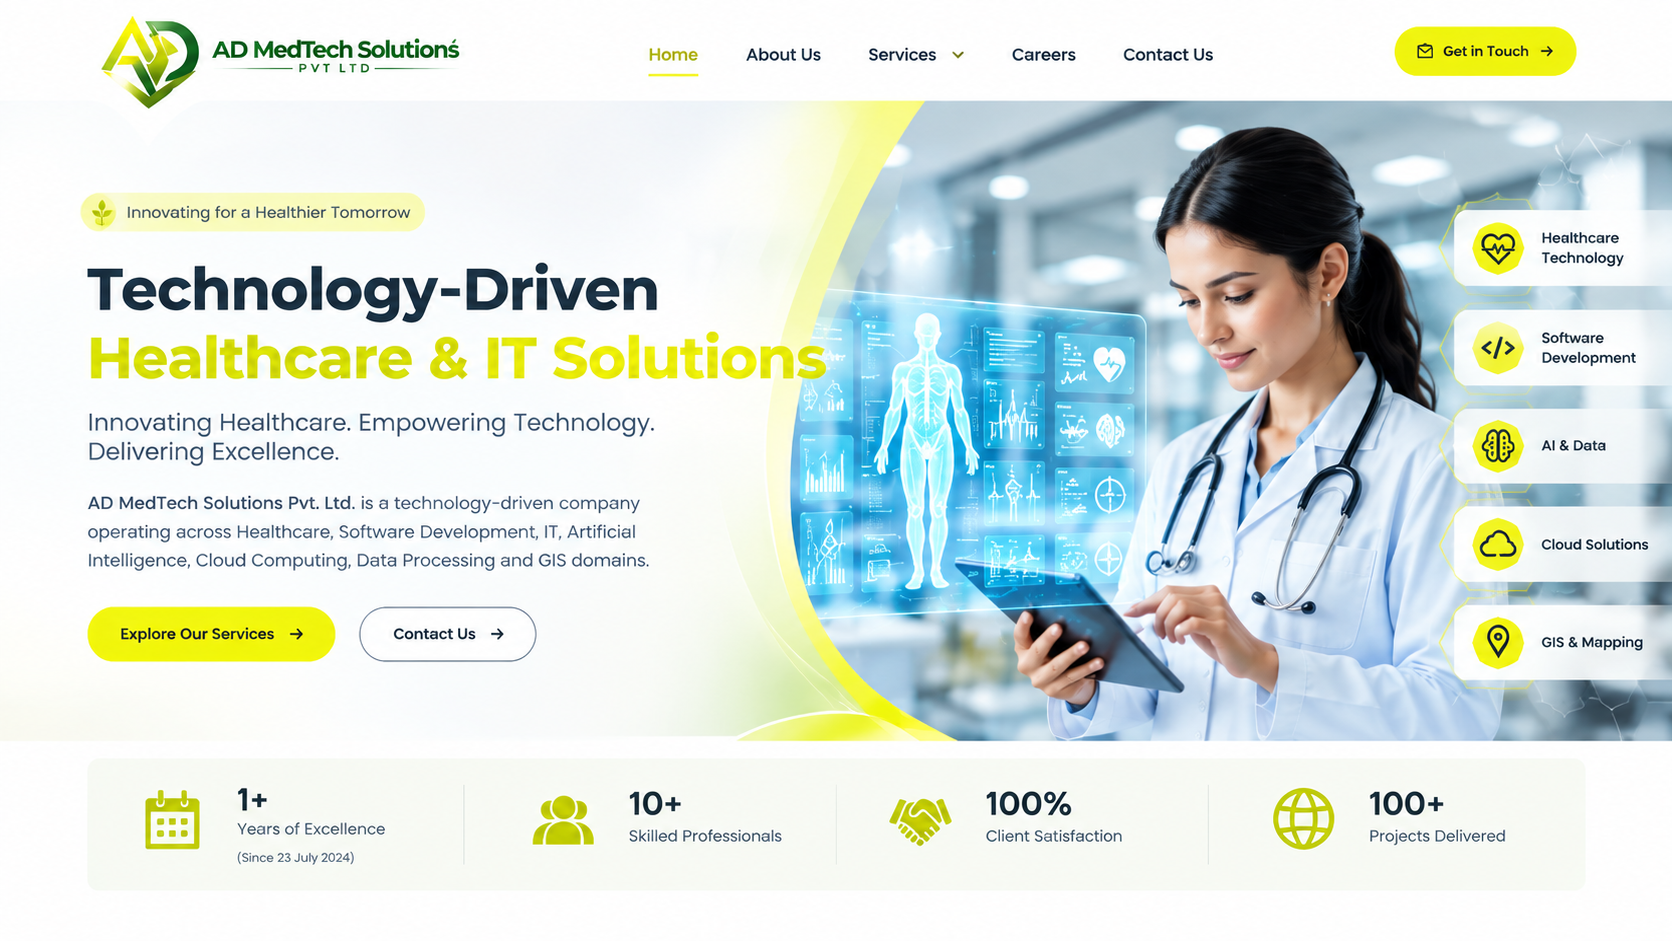
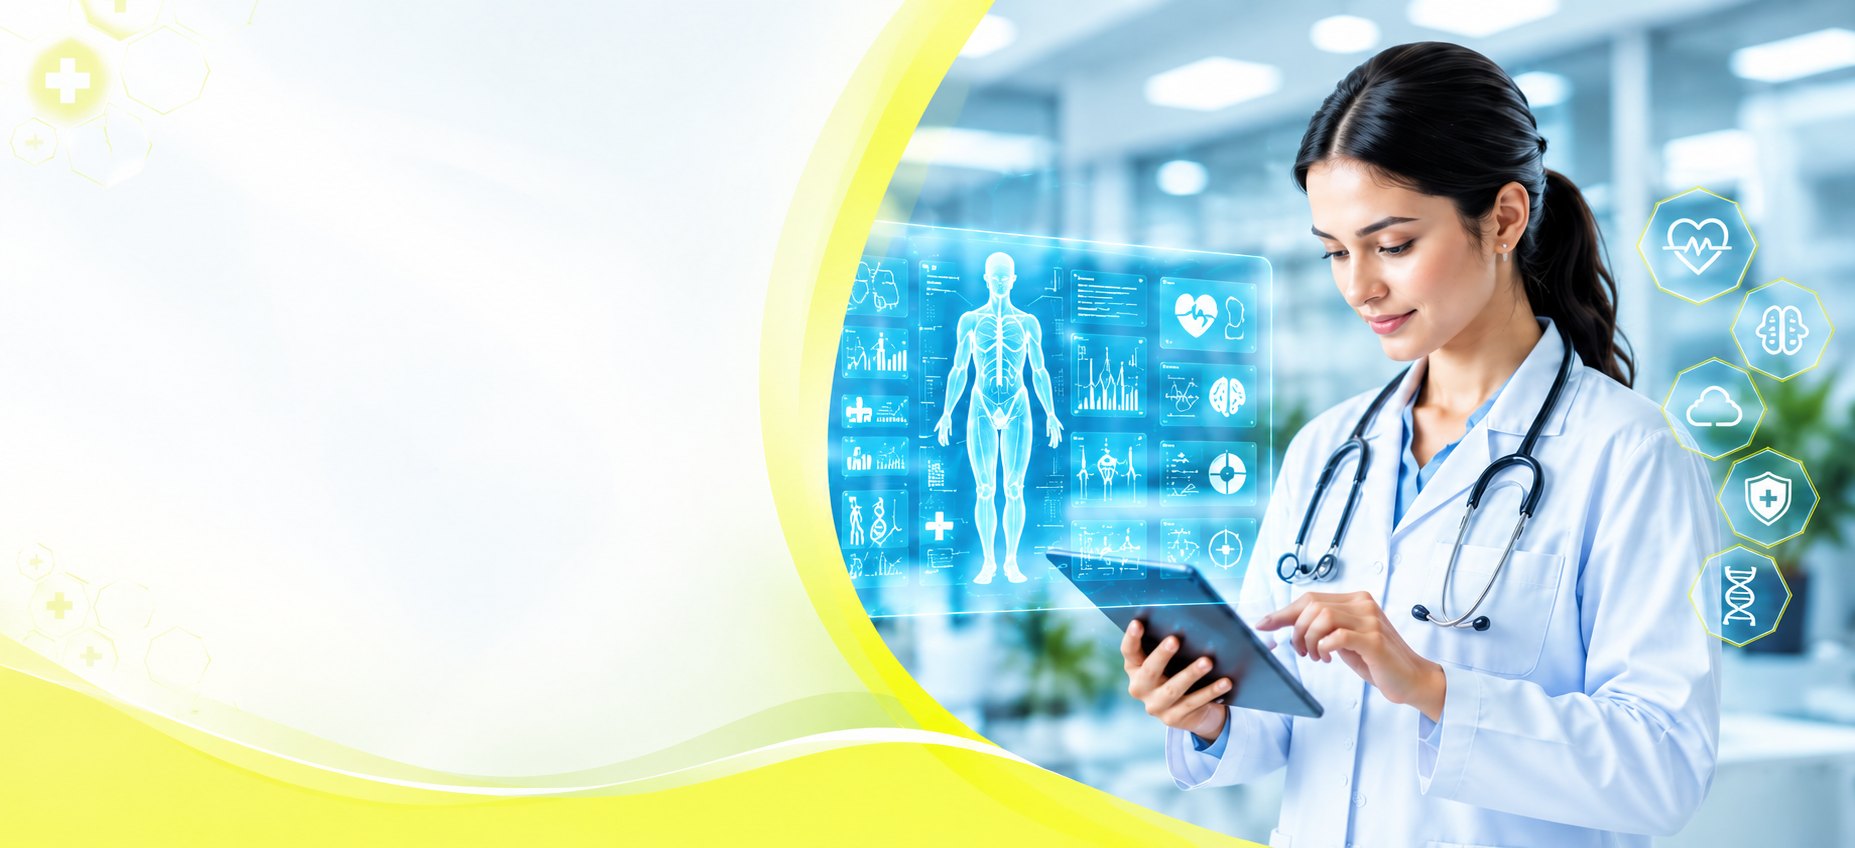
feat: replace hero background images for desktop and mobile - Desktop: image copy 4.png (wide landscape with doctor, yellow wave, white left area) - Mobile: image copy 5.png (portrait crop with doctor and yellow wave) - Updated CSS overlay to minimal since images have built-in white areas

diff --git a/src/index.css b/src/index.css
@@ -597,9 +597,6 @@ button {
 }
 
 /* ============================================
-   HERO SECTION
-   ============================================ */
-/* ============================================
    HERO SECTION (FULL-WIDTH CONTINUOUS BANNER)
    ============================================ */
 .hero {
@@ -612,22 +609,20 @@ button {
   align-items: center;
   background-image: url('/images/hero-bg.png');
   background-size: cover;
-  background-position: 70% center;
+  background-position: center center;
   background-repeat: no-repeat;
   background-color: #f8faf0;
 }
 
+/* Minimal overlay — image already has white left area built in */
 .hero-overlay {
   position: absolute;
   inset: 0;
   background: linear-gradient(
     90deg,
-    rgba(248, 250, 240, 1.0) 0%,
-    rgba(248, 250, 240, 1.0) 40%,
-    rgba(248, 250, 240, 0.90) 53%,
-    rgba(248, 250, 240, 0.35) 68%,
-    rgba(248, 250, 240, 0.05) 82%,
-    rgba(248, 250, 240, 0) 100%
+    rgba(248, 250, 240, 0.25) 0%,
+    rgba(248, 250, 240, 0.10) 45%,
+    rgba(248, 250, 240, 0) 65%
   );
   z-index: 1;
   pointer-events: none;
@@ -2344,24 +2339,26 @@ button {
   .section { padding: 56px 0; }
   .container { padding: 0 16px; }
 
-  /* Hero (Continuous Full-Width Background) */
+  /* Hero Mobile — portrait background image */
   .hero {
-    min-height: 560px;
-    background-position: 65% center;
+    min-height: 520px;
+    background-image: url('/images/hero-bg-mobile.png');
+    background-position: center top;
     background-size: cover;
     display: flex;
     align-items: center;
-    padding-top: calc(var(--header-height) + 24px);
-    padding-bottom: 48px;
+    padding-top: calc(var(--header-height) + 20px);
+    padding-bottom: 40px;
   }
 
+  /* Stronger overlay so text stays readable over the mobile portrait image */
   .hero-overlay {
     background: linear-gradient(
       180deg,
-      rgba(255, 255, 255, 0.98) 0%,
-      rgba(255, 255, 255, 0.92) 50%,
-      rgba(255, 255, 255, 0.65) 80%,
-      rgba(255, 255, 255, 0.2) 100%
+      rgba(248, 250, 240, 0.88) 0%,
+      rgba(248, 250, 240, 0.72) 55%,
+      rgba(248, 250, 240, 0.40) 80%,
+      rgba(248, 250, 240, 0.10) 100%
     );
   }
 

diff --git a/dist/index.html b/dist/index.html
@@ -14,8 +14,8 @@
     <link rel="preconnect" href="https://fonts.googleapis.com" />
     <link rel="preconnect" href="https://fonts.gstatic.com" crossorigin />
     <link href="https://fonts.googleapis.com/css2?family=Inter:wght@300;400;500;600;700;800;900&family=Plus+Jakarta+Sans:wght@400;500;600;700;800&display=swap" rel="stylesheet" />
-    <script type="module" crossorigin src="./assets/index-CbUPBK6X.js"></script>
-    <link rel="stylesheet" crossorigin href="./assets/index-DOB--Oq-.css">
+    <script type="module" crossorigin src="./assets/index-DrTph97a.js"></script>
+    <link rel="stylesheet" crossorigin href="./assets/index-WDfu8n40.css">
   </head>
   <body>
     <div id="root"></div>
